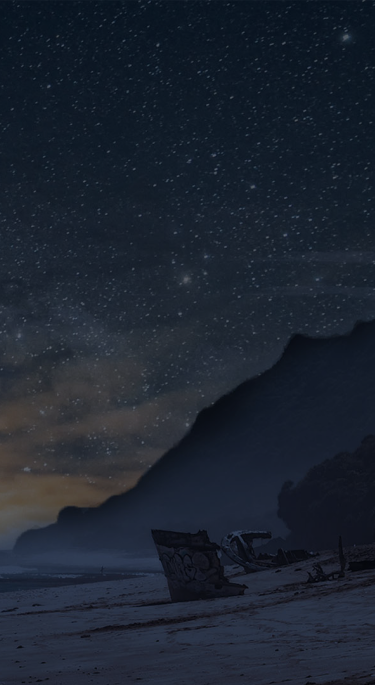
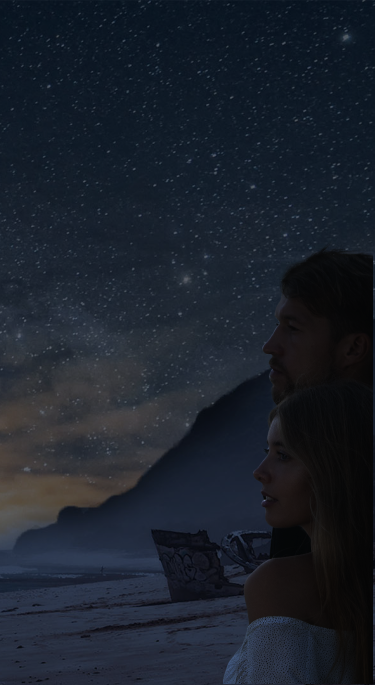
ауау

Changed region(s): [[0.5867, 0.3679, 0.9973, 1.0]]

diff --git a/app/index.html b/app/index.html
@@ -93,7 +93,7 @@
                     </div>
                 </div>
             </div>
-                <img class="people-img" src="img/ppl1.png" alt="ppl">
+                <!-- <img class="people-img" src="img/ppl1.png" alt="ppl"> -->
         </div>
         <div class="shower">
             <div class="shower-content">
